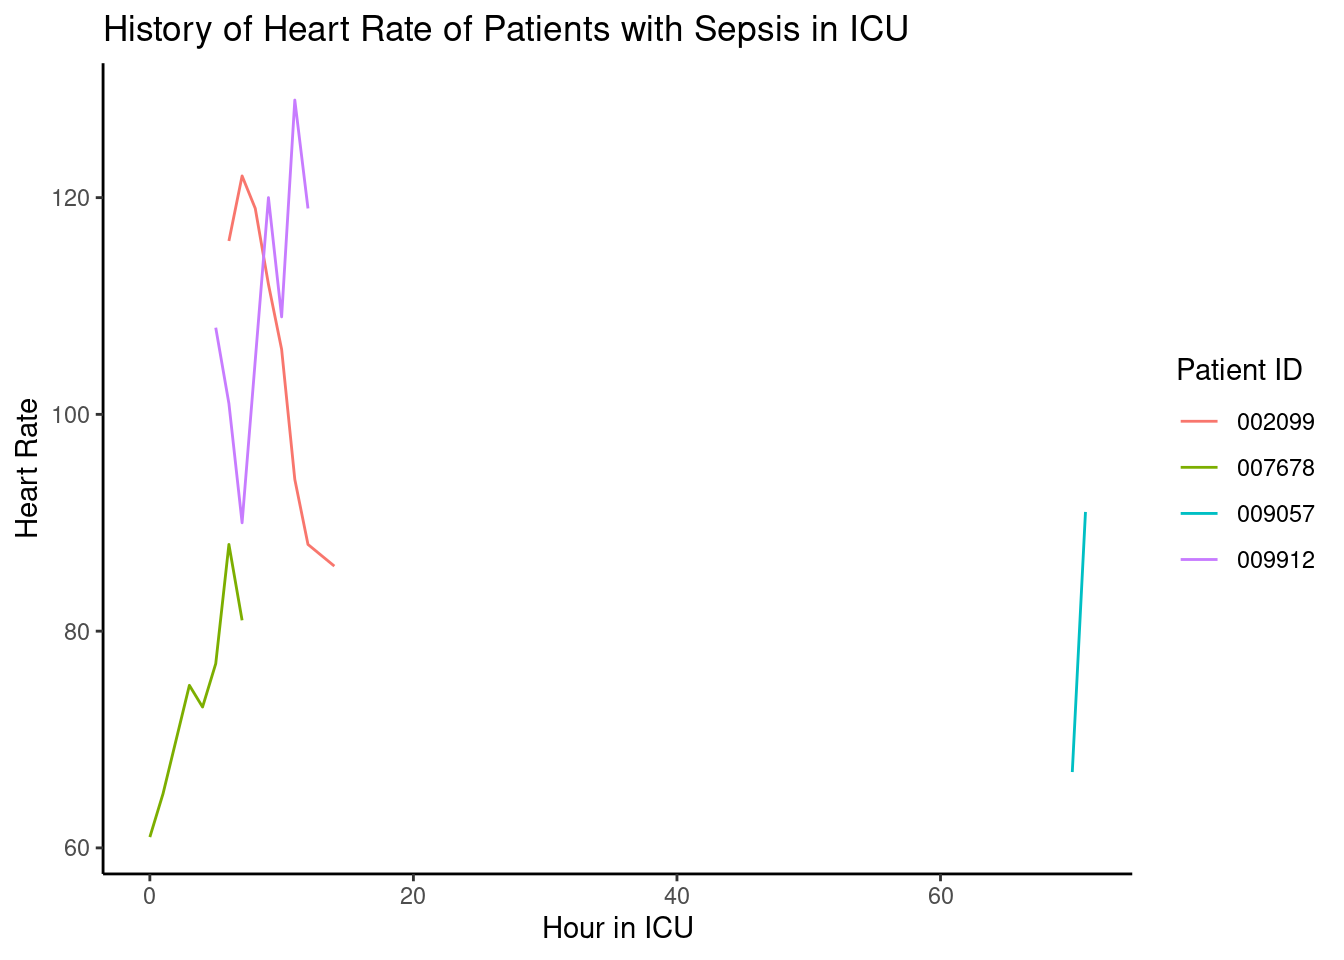
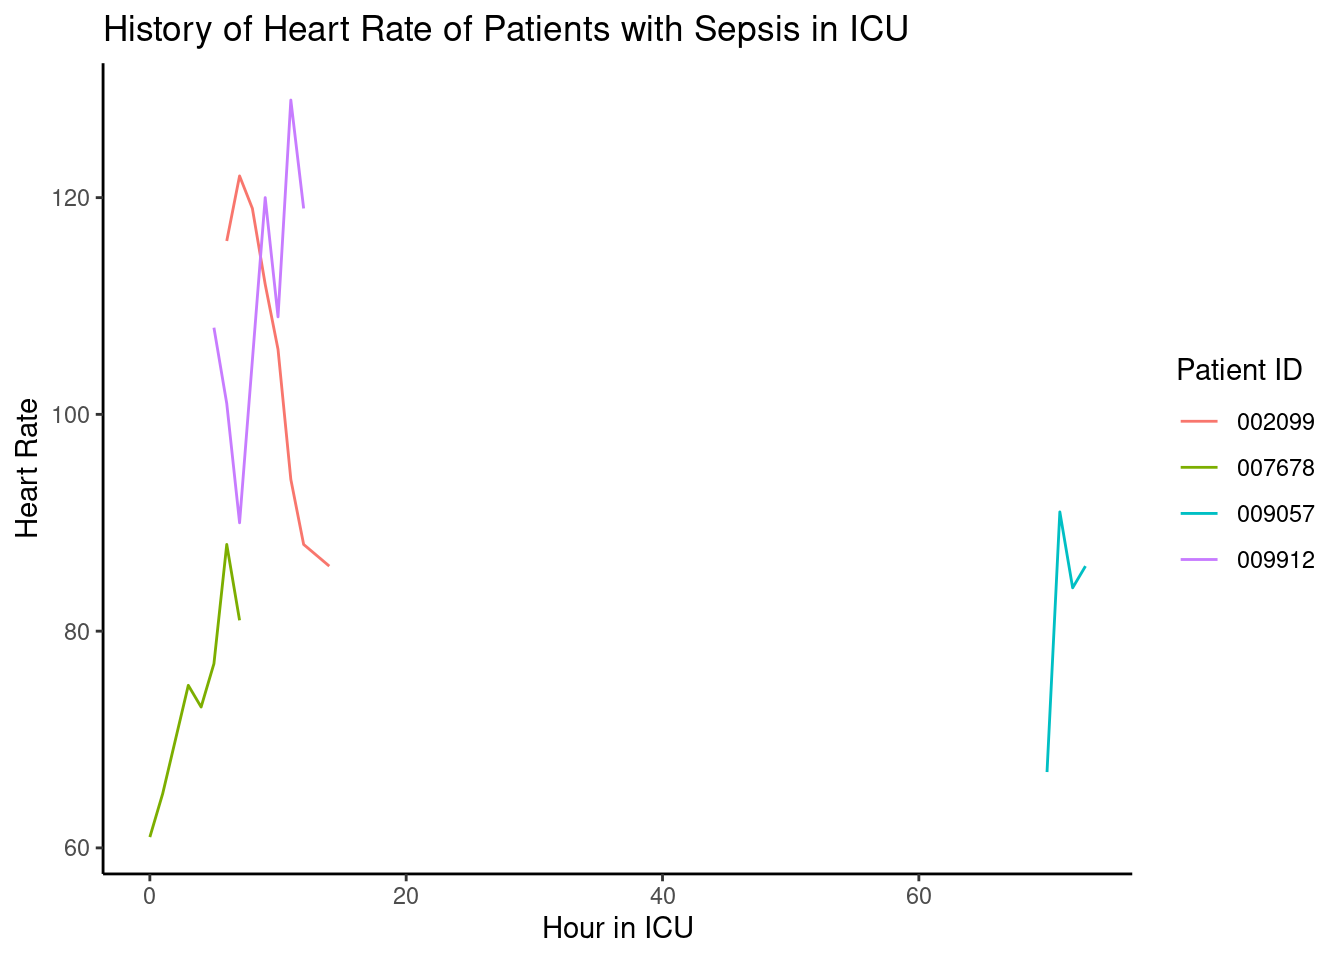
Updated report

diff --git a/HW7.html b/HW7.html
@@ -72,7 +72,7 @@ ul.task-list li input[type="checkbox"] {
 
 <div class="cell">
 <div class="cell-output cell-output-stdout">
-<pre><code>This report was updated at 2023-04-09 10:17:53 CDT</code></pre>
+<pre><code>This report was updated at 2023-04-09 11:14:08 CDT</code></pre>
 </div>
 </div>
 <div class="cell">
@@ -103,9 +103,9 @@ ul.task-list li input[type="checkbox"] {
   </tr>
   <tr>
    <td style="text-align:left;"> 009057 </td>
-   <td style="text-align:right;"> 91 </td>
-   <td style="text-align:right;"> NA </td>
-   <td style="text-align:right;"> 16 </td>
+   <td style="text-align:right;"> 86 </td>
+   <td style="text-align:right;"> 37.28 </td>
+   <td style="text-align:right;"> 18 </td>
   </tr>
   <tr>
    <td style="text-align:left;"> 009912 </td>
@@ -169,9 +169,9 @@ ul.task-list li input[type="checkbox"] {
   </tr>
   <tr>
    <td style="text-align:left;font-weight: bold;color: black !important;background-color: lightgrey !important;border-right:1px solid;"> 000795 </td>
-   <td style="text-align:right;"> -3 </td>
+   <td style="text-align:right;"> 3 </td>
    <td style="text-align:right;"> NA </td>
-   <td style="text-align:right;"> -1 </td>
+   <td style="text-align:right;"> 0 </td>
   </tr>
   <tr>
    <td style="text-align:left;font-weight: bold;color: black !important;background-color: lightgrey !important;border-right:1px solid;"> 001135 </td>
@@ -415,9 +415,9 @@ ul.task-list li input[type="checkbox"] {
   </tr>
   <tr>
    <td style="text-align:left;font-weight: bold;color: black !important;background-color: lightgrey !important;border-right:1px solid;"> 009057 </td>
-   <td style="text-align:right;"> 24 </td>
+   <td style="text-align:right;"> 2 </td>
    <td style="text-align:right;"> NA </td>
-   <td style="text-align:right;"> -1 </td>
+   <td style="text-align:right;"> 3 </td>
   </tr>
   <tr>
    <td style="text-align:left;font-weight: bold;color: black !important;background-color: lightgrey !important;border-right:1px solid;"> 009141 </td>
